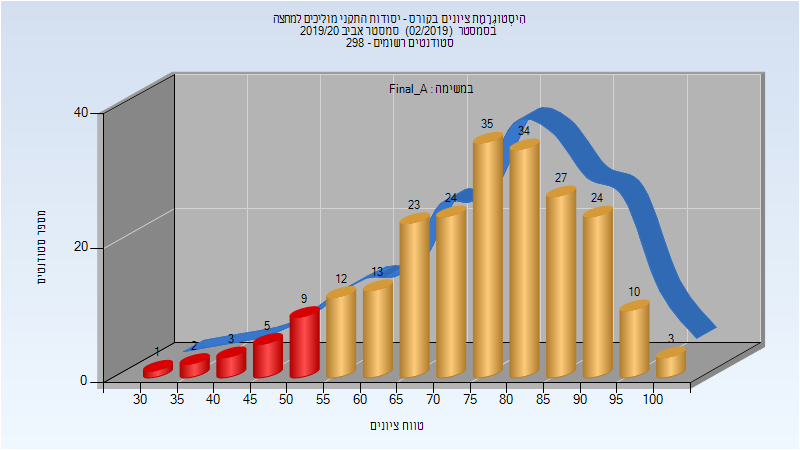
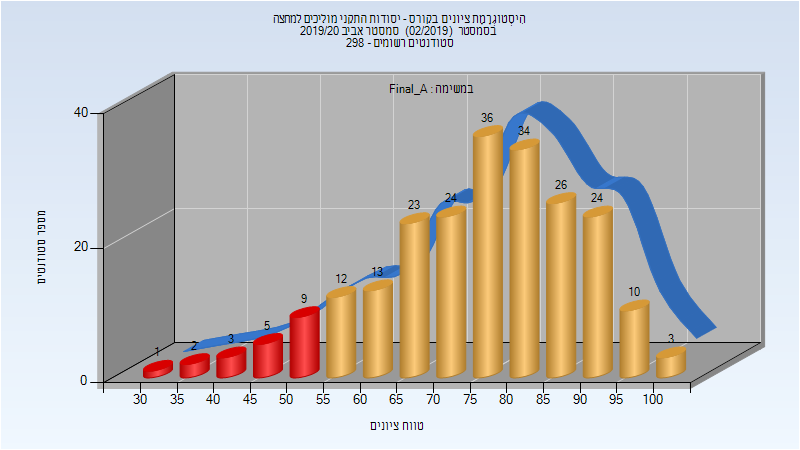
Deploy michael-maltsev/technion-histograms to github.com/michael-maltsev/technion-histograms.git:gh-pages

Changed region(s): [[0.6875, 0.3111, 0.8125, 0.4667], [0.5938, 0.2178, 0.7188, 0.3422]]

diff --git a/044127/index.html b/044127/index.html
@@ -376,7 +376,7 @@
 <td>86</td>
 <td>21</td>
 <td>100</td>
-<td>72.44</td>
+<td>72.387</td>
 <td>75</td>
 </tr>
 </tbody>
@@ -402,7 +402,7 @@
 <td>91</td>
 <td>31</td>
 <td>100</td>
-<td>75.596</td>
+<td>75.56</td>
 <td>78</td>
 </tr>
 </tbody>

diff --git a/046002/index.html b/046002/index.html
@@ -606,7 +606,7 @@
 <td>85</td>
 <td>35</td>
 <td>99</td>
-<td>77.636</td>
+<td>77.424</td>
 <td>83</td>
 </tr>
 </tbody>
@@ -632,7 +632,7 @@
 <td>94</td>
 <td>44</td>
 <td>99</td>
-<td>80.576</td>
+<td>80.364</td>
 <td>85</td>
 </tr>
 </tbody>

diff --git a/046002/README.md b/046002/README.md
@@ -186,7 +186,7 @@
 
 | סטודנטים | עברו/נכשלו | אחוז עוברים | ציון מינימלי | ציון מקסימלי | ממוצע | חציון |
 | ---- | ---- | ---- | ---- | ---- | ---- | ---- |
-| 33 | 28/5 | 85 | 35 | 99 | 77.636 | 83 |
+| 33 | 28/5 | 85 | 35 | 99 | 77.424 | 83 |
 
 ### סופי מועד א'
 
@@ -194,7 +194,7 @@
 
 | סטודנטים | עברו/נכשלו | אחוז עוברים | ציון מינימלי | ציון מקסימלי | ממוצע | חציון |
 | ---- | ---- | ---- | ---- | ---- | ---- | ---- |
-| 33 | 31/2 | 94 | 44 | 99 | 80.576 | 85 |
+| 33 | 31/2 | 94 | 44 | 99 | 80.364 | 85 |
 
 ### סופי
 

diff --git a/044127/README.md b/044127/README.md
@@ -112,7 +112,7 @@
 
 | סטודנטים | עברו/נכשלו | אחוז עוברים | ציון מינימלי | ציון מקסימלי | ממוצע | חציון |
 | ---- | ---- | ---- | ---- | ---- | ---- | ---- |
-| 225 | 193/32 | 86 | 21 | 100 | 72.44 | 75 |
+| 225 | 193/32 | 86 | 21 | 100 | 72.387 | 75 |
 
 ### סופי מועד א'
 
@@ -120,5 +120,5 @@
 
 | סטודנטים | עברו/נכשלו | אחוז עוברים | ציון מינימלי | ציון מקסימלי | ממוצע | חציון |
 | ---- | ---- | ---- | ---- | ---- | ---- | ---- |
-| 225 | 205/20 | 91 | 31 | 100 | 75.596 | 78 |
+| 225 | 205/20 | 91 | 31 | 100 | 75.56 | 78 |
 
